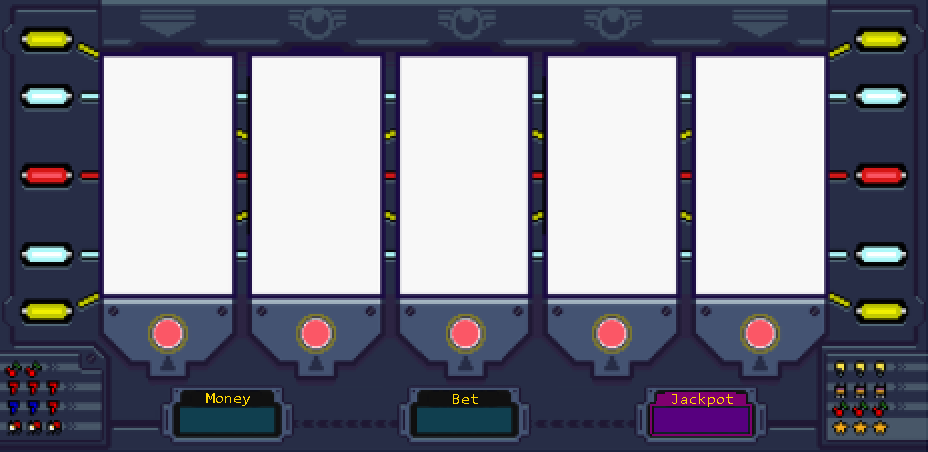
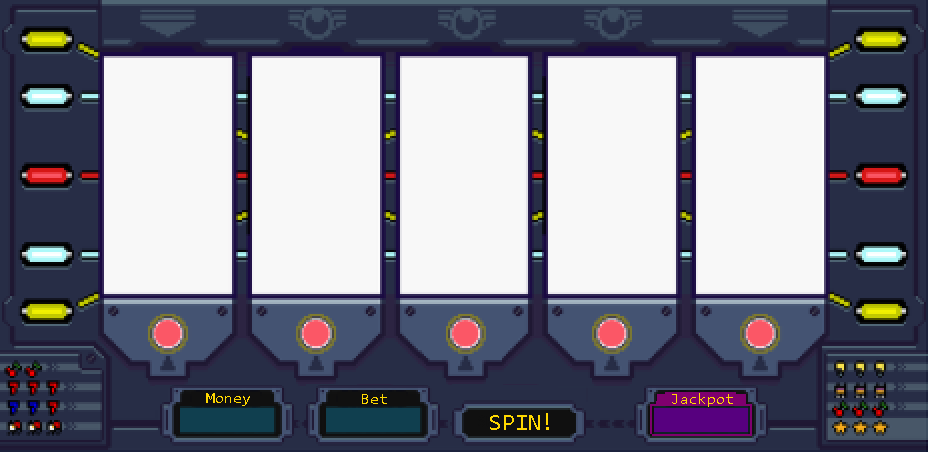
As1 Spin btn sprite

Changed region(s): [[0.3125, 0.8363, 0.6562, 0.9912]]

diff --git a/build/As1/Reel.js b/build/As1/Reel.js
@@ -16,11 +16,17 @@ export class Reel extends createjs.Container {
         this._reelHeight = 238;
         this._slotSize = 128;
         this._slotSpacing = Math.round((this._reelHeight - this._slotSize) / 2);
+        this.initReel();
         this.initSlots();
-        this.addChild(this._reelClipped);
     }
     get selectedSlot() {
         return this._slots[this._selectedSlot];
+    }
+    initReel() {
+        let mask = new createjs.Shape();
+        mask.graphics.beginFill("#f00").drawRect(0, this._yStart, this._slotSize, this._reelHeight);
+        this._reelClipped.mask = mask;
+        this.addChild(this._reelClipped);
     }
     initSlots() {
         let slot2Bitmap = new createjs.Bitmap("../../Assets/As1/Cat_grey3.png");
@@ -35,13 +41,12 @@ export class Reel extends createjs.Container {
         this._slots.push({ bitmap: slot1Bitmap, item: SlotItem.Bunny });
         this._slots.push({ bitmap: slot2Bitmap, item: SlotItem.Cat });
         this._slots.push({ bitmap: slot3Bitmap, item: SlotItem.Snake });
-        let mask = new createjs.Shape();
-        mask.graphics.beginFill("#f00").drawRect(0, this._yStart, this._slotSize, this._reelHeight);
-        this._reelClipped.mask = mask;
+    }
+    renderSlot(slotNum, yOffset) {
     }
     Update() {
         this._slots.forEach(slot => {
-            // slot.y += 1;
+            // slot.bitmap.y += 1;
         });
     }
 }

diff --git a/Scripts/As1/Reel.ts b/Scripts/As1/Reel.ts
@@ -35,7 +35,15 @@ export class Reel extends createjs.Container {
 		this._slotSize = 128;
 		this._slotSpacing = Math.round((this._reelHeight - this._slotSize) / 2);
 
+		this.initReel();
 		this.initSlots();
+	}
+
+	private initReel() {
+		let mask = new createjs.Shape();
+		mask.graphics.beginFill("#f00").drawRect(0, this._yStart, this._slotSize, this._reelHeight);
+		this._reelClipped.mask = mask;
+		
 		this.addChild(this._reelClipped);
 	}
 
@@ -55,10 +63,10 @@ export class Reel extends createjs.Container {
 		this._slots.push({ bitmap: slot1Bitmap, item: SlotItem.Bunny });
 		this._slots.push({ bitmap: slot2Bitmap, item: SlotItem.Cat });
 		this._slots.push({ bitmap: slot3Bitmap, item: SlotItem.Snake });
+	}
 
-		let mask = new createjs.Shape();
-		mask.graphics.beginFill("#f00").drawRect(0, this._yStart, this._slotSize, this._reelHeight);
-		this._reelClipped.mask = mask;
+	private renderSlot(slotNum: number, yOffset: number) {
+		
 	}
 
 	public Update() {

diff --git a/Content/as1.css b/Content/as1.css
@@ -4,8 +4,17 @@
 
 #playerBet {
 	position: absolute;
-	top: 410px;
-	left: 418px;
+	padding-left: 5px;
+
+	top: 408px;
+	left: 326px;
 	width: 90px;
-	height: 16px;
+	height: 24px;
+
+	border: none;
+	background-color: transparent;
+	color: #eeca01;
+
+	font-size: 12pt;
+	font-family: "consolas";
 }
